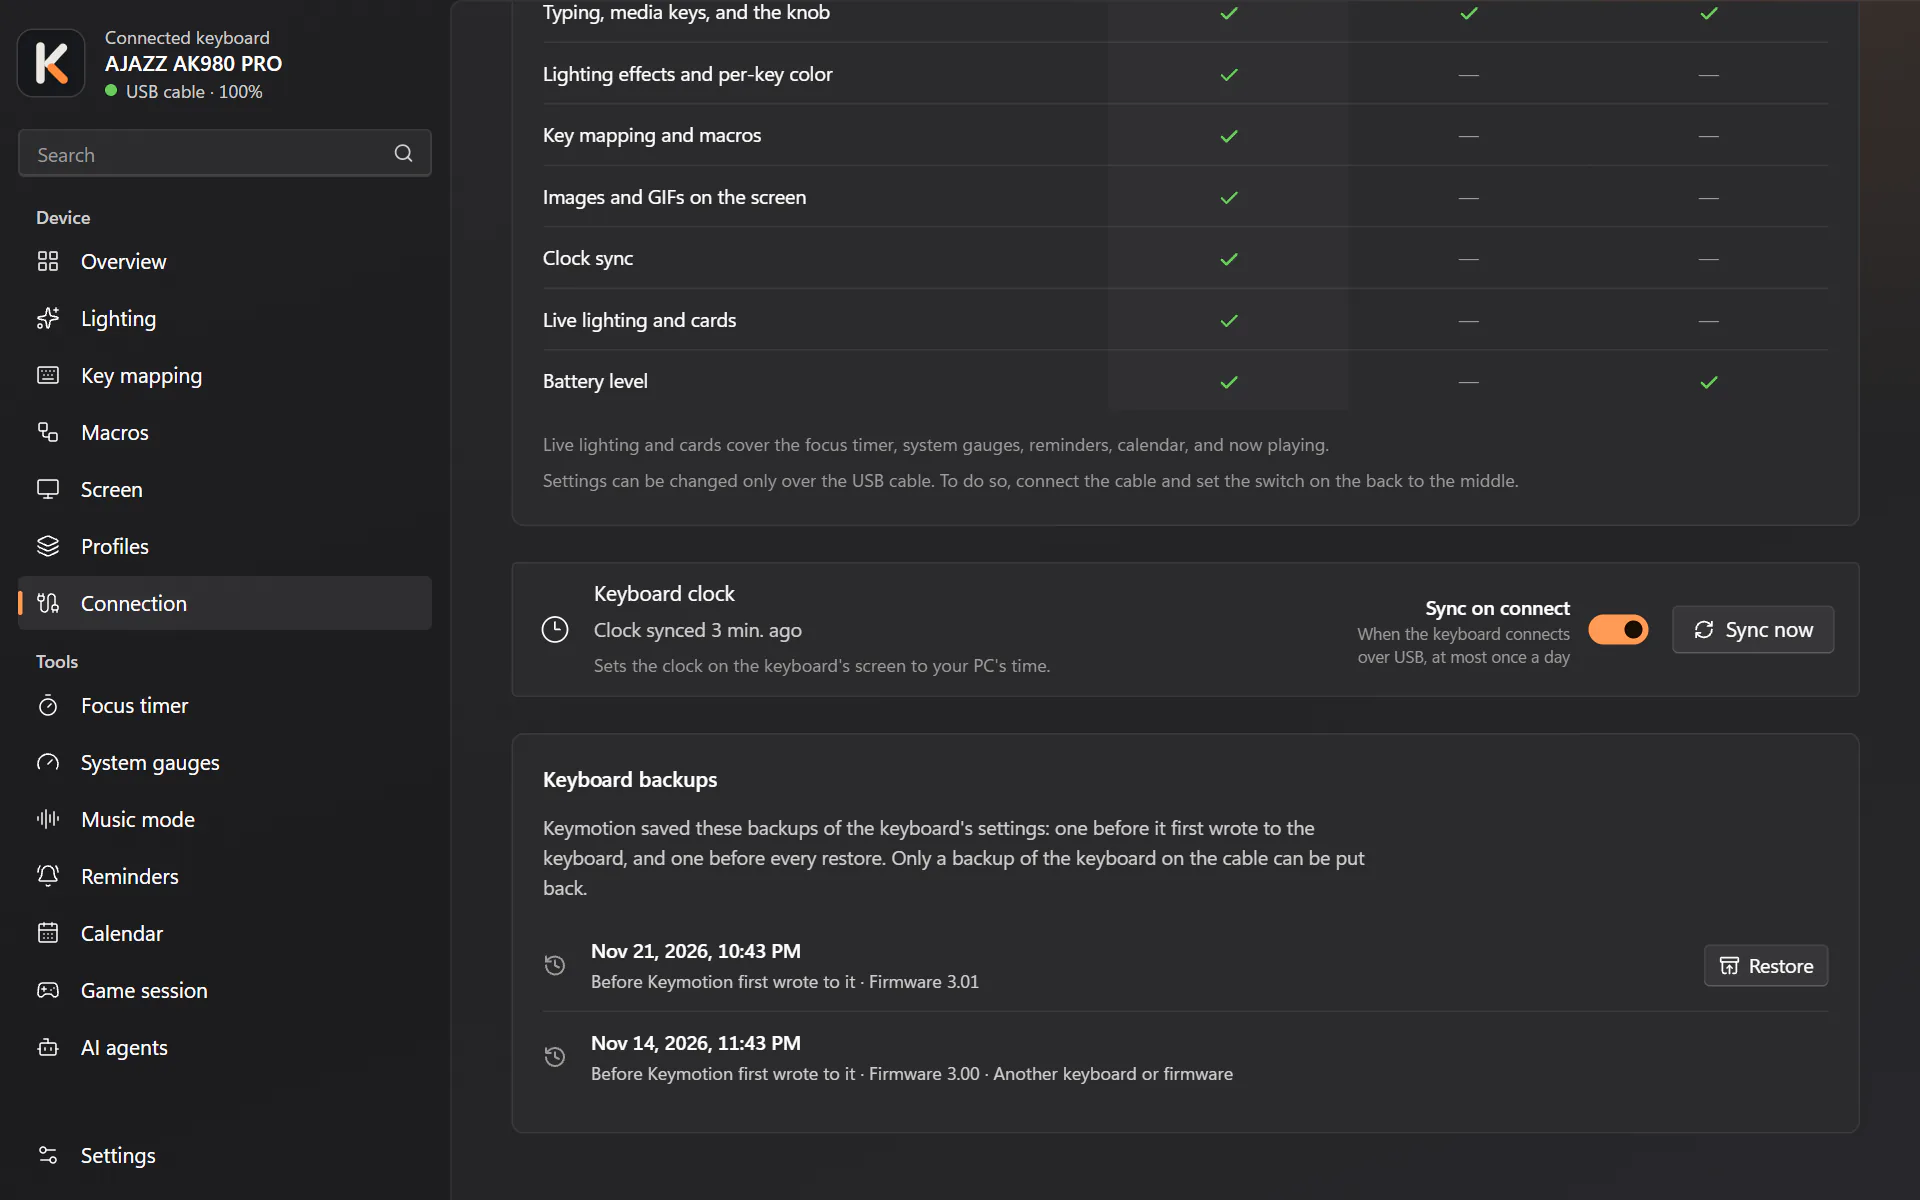
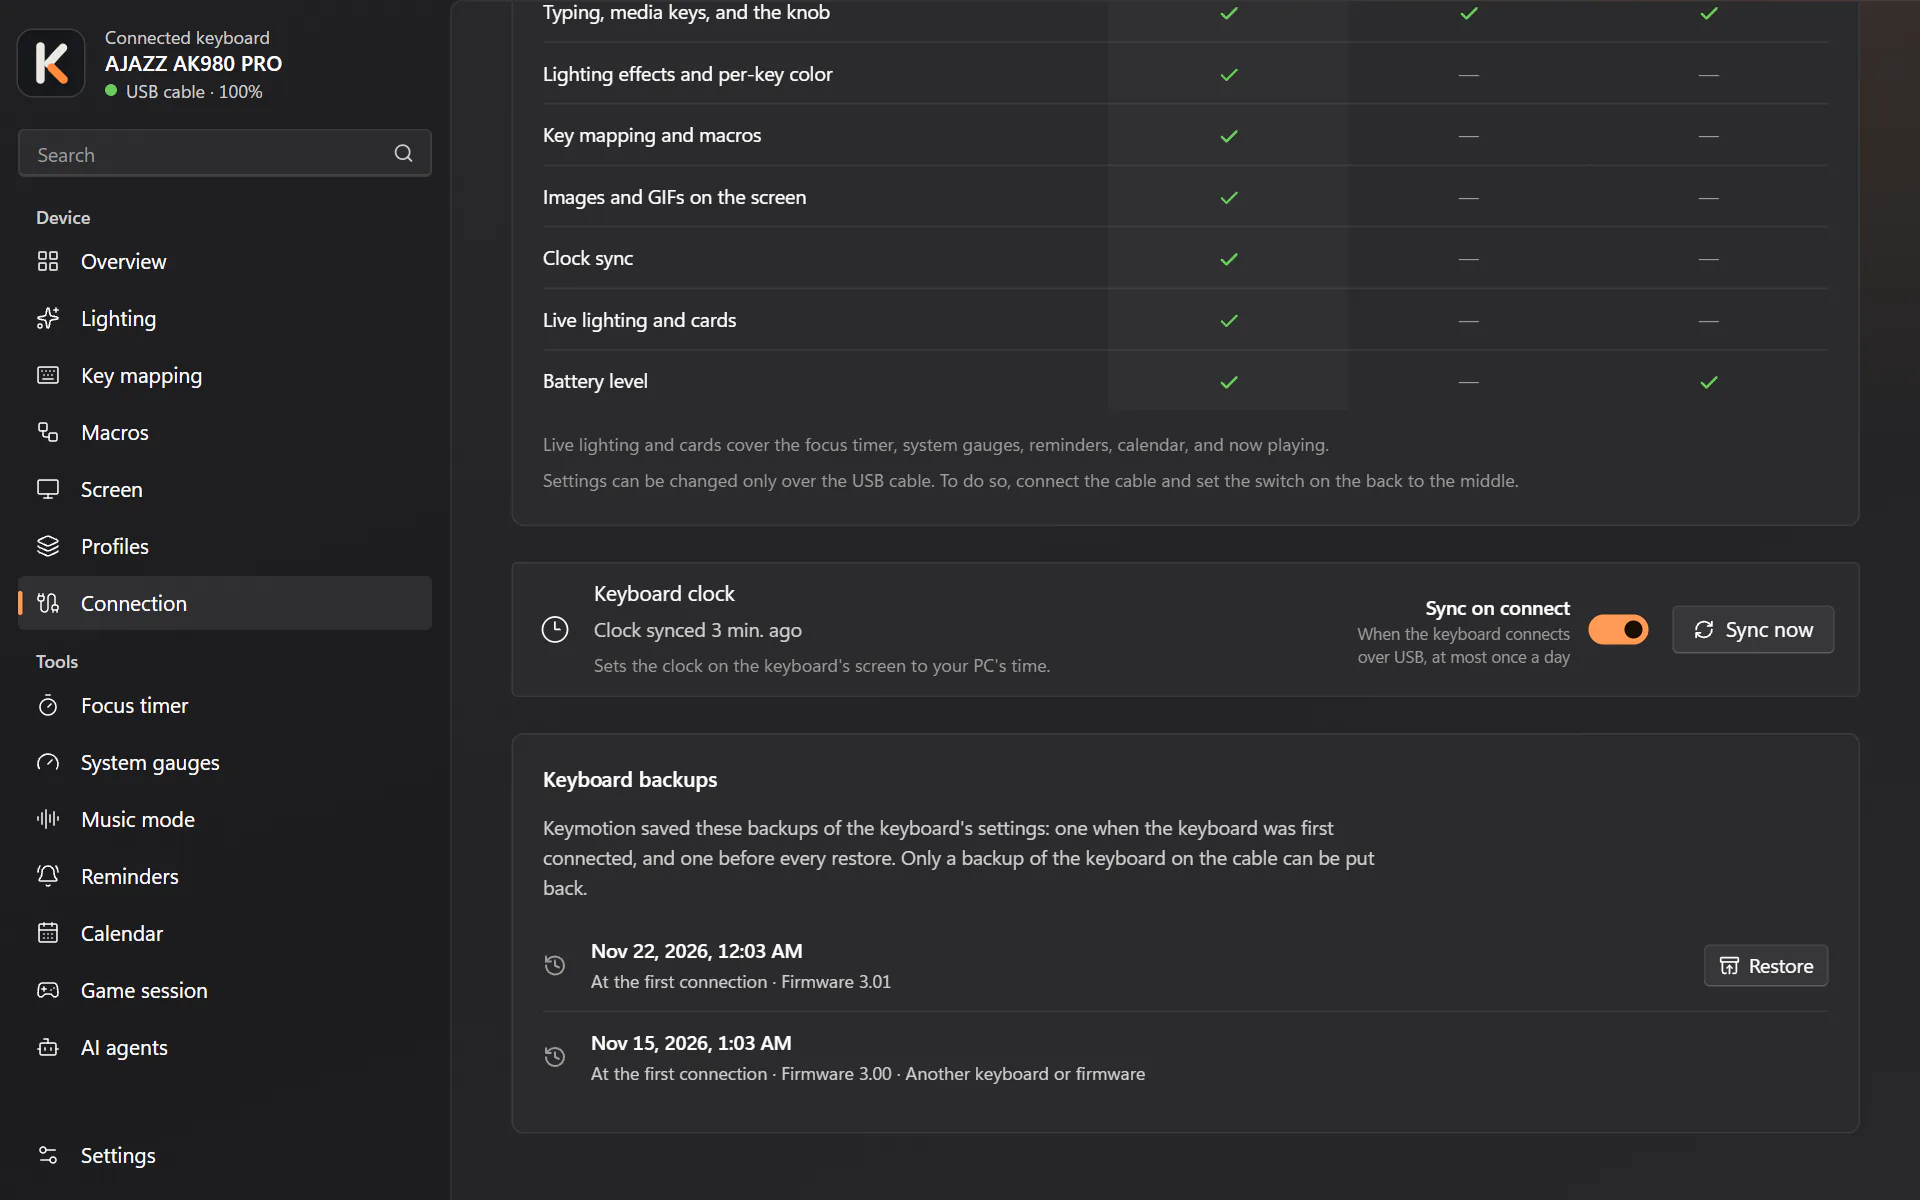
AA review fixes: changelog and retaken restore screenshots
The changelog says that key mapping and macros on firmware 3.01 show what
is on the keyboard and keep what was set in other programs, and how a
restore behaves around uploads and other pages. The backup list and the
restore steps are retaken for the new texts.

Changed region(s): [[0.2812, 0.6783, 0.7188, 0.74], [0.3125, 0.8633, 0.5938, 0.925], [0.3125, 0.7708, 0.5, 0.8325]]

diff --git a/CHANGELOG.zh-CN.md b/CHANGELOG.zh-CN.md
@@ -11,7 +11,8 @@
 ### 新增
 
 - **装有黑爵 3.01 固件（“769”）的黑爵 AK980 V2（带屏版），测试版**：Keymotion 现在可以通过 USB 数据线使用这个固件的另一套命令：灯效和逐键颜色、实时灯光、两层的自定义按键、宏、屏幕图片、时钟，以及键盘通过数据线也会报告的电量。这项支持是新的：它在模拟键盘上试过，还没有在真实键盘上试过，所以**连接**页面和“概览”会把它标为**测试版**，并提供一个链接，方便你告诉我们效果如何。每次运行中第一次写入之前，Keymotion 会像对待所有未经测试的固件一样先询问你（**未经测试的固件**）。在这个固件上不提供**禁用**、**双击**和宏播放方式**按住时**。
-- **键盘备份（3.01 固件）**：Keymotion 第一次连接键盘时，会在能够写入任何内容之前保存一份键盘设置的备份（两层的自定义按键、灯效、逐键颜色、宏），每次恢复之前也会再保存一份。**连接**页面会列出这些备份。**恢复**会分步骤把当前通过数据线连接的这把键盘的备份恢复回去：会恢复什么；如果备份不知道灯光颜色，就请你选择颜色；最后说明恢复了哪些内容、哪些按键保持原样。如果无法保存备份、键盘报告的内容看起来不符合预期，或者固件更新没有完成，Keymotion 不会向键盘写入任何内容，所有会写入键盘的页面都会说明原因。
+- **键盘备份（3.01 固件）**：Keymotion 第一次连接键盘时，会在能够写入任何内容之前保存一份键盘设置的备份（两层的自定义按键、灯效、逐键颜色、宏），每次恢复之前也会再保存一份。**连接**页面会列出这些备份。**恢复**会分步骤把当前通过数据线连接的这把键盘的备份恢复回去：会恢复什么；如果备份不知道灯光颜色，就请你选择颜色；最后说明恢复了哪些内容、哪些按键保持原样。向屏幕上传内容期间不会开始恢复；切换到其他页面时恢复会继续进行，并有通知告诉你结果如何。如果无法保存备份、键盘报告的内容看起来不符合预期，或者固件更新没有完成，Keymotion 不会向键盘写入任何内容，所有会写入键盘的页面都会说明原因。
+- **3.01 固件上的自定义按键和宏**：这个固件会报告按键分配和宏，所以**自定义按键**和**宏**页面显示的是键盘上的内容，恢复备份之后也是如此。在其他程序（例如黑爵的驱动）中设置、Keymotion 无法显示的按键和宏会被标出，保存时保持原样。
 - **3.01 固件上的实时灯光**：只有当键盘处于逐键颜色模式时，按键才会显示实时灯光（音乐模式、系统指标、专注计时器、提醒、日历、游戏时段、AI 智能体、**在键盘上预览**）。Keymotion 会把键盘切换到这个模式，并在实时灯光结束大约 30 秒后或你退出时恢复你自己的灯光。为此它需要知道你的灯光颜色；如果不知道，开启实时灯光的页面会说明：请在 Keymotion 中保存一次你的灯光。
 - **时钟页（3.01 固件）**：上传可能会替换键盘自带的时钟页，之后只有键盘完全恢复出厂设置（Fn+空格键）才能让它回来。第一次上传之前（包括实时屏幕的第一张卡片），Keymotion 会先询问你。在这个固件上，可以停止正在进行的上传（**停止上传**）；停止后，Keymotion 会等几秒钟再向键盘发送其他内容。
 - **其他程序（3.01 固件）**：如果键盘发来 Keymotion 没有请求的应答，Keymotion 会提示似乎有其他程序在与键盘通信（是不是在浏览器中打开了黑爵的键盘工具？）。不会因此阻止任何操作。

diff --git a/CHANGELOG.ru.md b/CHANGELOG.ru.md
@@ -38,10 +38,17 @@
   **Подключение** показывает их список. **Вернуть** возвращает копию
   клавиатуры, подключённой кабелем, по шагам: что вернётся, цвет подсветки,
   если его нет в копии, затем что возвращено и какие клавиши оставлены как
-  есть. Если копию не удалось сохранить, если то, что сообщает клавиатура,
+  есть. Пока идёт загрузка на экран, возврат не начинается; если перейти в
+  другой раздел, он продолжается, а уведомление сообщает, чем он закончился. Если копию не удалось сохранить, если то, что сообщает клавиатура,
   выглядит не так, как ожидается, или если обновление прошивки не было
   завершено, Keymotion ничего не записывает в клавиатуру, и каждый раздел,
   который мог бы записать, объясняет почему.
+- **Назначение клавиш и макросы с прошивкой 3.01:** эта прошивка сообщает
+  назначения клавиш и макросы, поэтому разделы **Назначение клавиш** и
+  **Макросы** показывают то, что есть в клавиатуре, в том числе после
+  возврата копии. Клавиши и макросы, заданные в другой программе (например,
+  от AJAZZ), которые Keymotion не может показать, отмечены как таковые и при
+  сохранении остаются как есть.
 - **Подсветка в реальном времени с прошивкой 3.01:** клавиши показывают
   подсветку в реальном времени (музыкальный режим, системные показатели,
   таймер фокусировки, напоминания, календарь, игровая сессия, ИИ-агенты,

diff --git a/CHANGELOG.md b/CHANGELOG.md
@@ -33,10 +33,17 @@ says so.
   colors, macros), and another before every restore. **Connection** lists
   them. **Restore** puts a backup of the keyboard on the cable back, step by
   step: what comes back, the lighting's color when the backup doesn't know
-  it, then what it put back and which keys it left as they were. When the
-  backup can't be saved, when what the keyboard reports doesn't look as
-  expected, or when a firmware update was left unfinished, Keymotion writes
-  nothing to the keyboard and every page that would says why.
+  it, then what it put back and which keys it left as they were. A restore
+  doesn't start while an upload to the screen runs; it goes on when you
+  open another page, and a notice says how it ended. When the backup can't
+  be saved, when what the keyboard reports doesn't look as expected, or when
+  a firmware update was left unfinished, Keymotion writes nothing to the
+  keyboard and every page that would says why.
+- **Key mapping and macros on firmware 3.01:** this firmware reports its key
+  mapping and macros, so the **Key mapping** and **Macros** pages show
+  what's on the keyboard, also after a restore. Keys and macros set in
+  another program (AJAZZ's, say) that Keymotion can't show are marked as
+  such, and saving leaves them as they are.
 - **Live lighting on firmware 3.01:** the keys show live lighting (music
   mode, system gauges, the focus timer, reminders, the calendar, the game
   session, AI agents, **Preview on keyboard**) only in the keyboard's

diff --git a/CHANGELOG.tr.md b/CHANGELOG.tr.md
@@ -32,9 +32,16 @@ Yalnızca birini ilgilendiren bir değişiklik bunu belirtir.
   sayfası yedekleri listeler. **Geri yükle**, kablodaki klavyenin yedeğini
   adım adım geri yükler: neler geri gelir, yedek ışığın rengini bilmiyorsa
   o renk, sonra neyi geri yüklediği ve hangi tuşları olduğu gibi bıraktığı.
+  Ekrana bir yükleme sürerken geri yükleme başlamaz; başka bir sayfaya
+  geçtiğinizde sürer ve nasıl bittiğini bir bildirim söyler.
   Yedek alınamazsa, klavyenin bildirdikleri beklendiği gibi görünmezse ya da
   bir klavye yazılımı güncellemesi yarım kaldıysa Keymotion klavyeye hiçbir
   şey yazmaz; yazacak her sayfa nedenini söyler.
+- **3.01 klavye yazılımında tuş atama ve makrolar:** bu yazılım tuş
+  atamasını ve makrolarını bildirir; bu yüzden **Tuş atama** ve **Makrolar**
+  sayfaları, geri yüklemeden sonra da, klavyede olanı gösterir. Başka bir
+  programda (örneğin AJAZZ'ınkinde) ayarlanan ve Keymotion'ın gösteremediği
+  tuşlar ile makrolar öyle işaretlenir; kaydettiğinizde olduğu gibi kalırlar.
 - **3.01 klavye yazılımında canlı ışıklar:** tuşlar canlı ışıkları (müzik
   modu, sistem göstergeleri, odak zamanlayıcısı, hatırlatıcılar, takvim,
   oyun oturumu, yapay zekâ ajanları, **Klavyede önizle**) yalnızca
